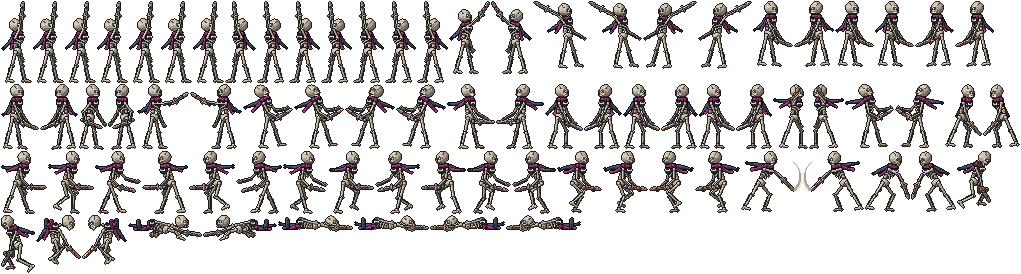
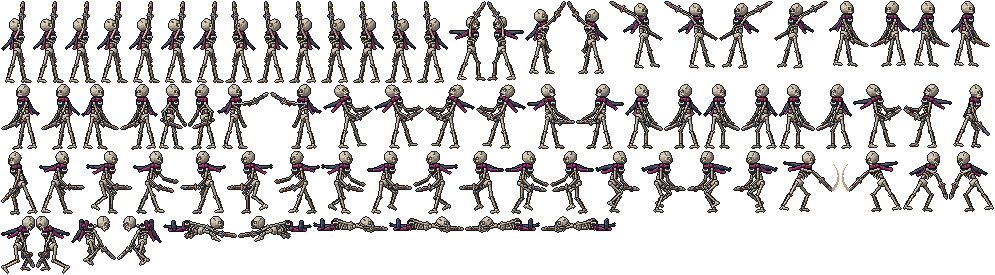
The Skeleton's Rusty Hack swings over the top instead of folding back
Jakub (2026-10-18): "skeleton a1 animation is not proper loop. fix". The
frame between the wind-up and the hack was a blend of the two poses, and a
blend turns each joint the short way round: the forearm, going from behind
the head into the downward hack, folded backward behind the skull and the
sword vanished for a frame. That frame is now authored (RH_OVER): the sword
straight up over his head on its way down, so the swing reads back, over,
down through the target. Atlas and reel regenerated; the new-champion
skill notes the pitfall.

diff --git a/tools/art/champions/skeleton.ts b/tools/art/champions/skeleton.ts
@@ -440,6 +440,13 @@ const RH_WIND = pose({
   armN: { up: 128, lo: 154 }, armF: { up: -66, lo: -30 },
   p: { sword: 150, jaw: 14, wave: 1, wind: 0.2 },
 });
+/** The sword over his head on its way down: an authored frame, since a blend of the two poses turns the forearm back the short way round. */
+const RH_OVER = pose({
+  x: 1, y: -2, torso: 86, head: 86,
+  legN: { ik: v(-10, 3) }, legF: { ik: v(9, 3) },
+  armN: { up: 86, lo: 60 }, armF: { up: -100, lo: -78 },
+  p: { sword: 56, jaw: 16, wave: 1.7, wind: 0.4 },
+});
 const RH_HACK = pose({
   x: 7, y: -4, torso: 64, head: 72,
   legN: { ik: v(-9, 3) }, legF: { ik: v(12, 3) },
@@ -488,7 +495,7 @@ const char: CharDef = {
         ...tween(D, IDLE, RH_WIND, 1, 70),
         ...keys([
           [RH_WIND, 150],
-          [mid(RH_WIND, RH_HACK, 0.45), 40],
+          [RH_OVER, 40],
           [RH_HACK, 70, { smear: true, hit: true }],
           [RH_FOLLOW, 190],
         ]),

diff --git a/.claude/skills/new-champion/SKILL.md b/.claude/skills/new-champion/SKILL.md
@@ -52,7 +52,7 @@ A champion on four legs (the Bloodhound, the Follower, the Black Rhino) solves i
    A skeleton is built bone by bone from one placement of every bone per frame (`bonesOf` in `skeleton.ts`), so in its death the bones can fall apart toward their resting places (`HEAP`) on one pose channel (`heap`, 0..1).
    Key a texture to the shape, not to the screen, or it swims as the shape breathes: the `Hit` a `tex` receives carries the shape's `u` and `v` (the Black Rhino's coat and mane, the Associate's weave). Curly hair reads as round bunches, each lit on its own (the Associate).
    Check the details at pixel level with `npx tsx tools/art/zoom.ts <id> idle 0 out.png 9`. Typical problems it catches: a band drawn as a capsule along a limb turns into a blob (draw thin rings across the limb instead), jewellery hidden behind the jaw, a hat that reads as a different hat.
-5. Animations: `idle` (6-8 frames, whole-pixel breathing), `run` (8), every `anim` the skills name, `hurt` (3), `death` (6, last frame 600 ms; capes below the feet are clipped automatically), plus `rise` if the champion has Undying. Attacks follow anticipation -> strike (`hit: true`, `smear: true`) -> follow-through -> recovery. Events: `shoot`, `jump`, `cast`; pose channel `turn: 1` flips one frame.
+5. Animations: `idle` (6-8 frames, whole-pixel breathing), `run` (8), every `anim` the skills name, `hurt` (3), `death` (6, last frame 600 ms; capes below the feet are clipped automatically), plus `rise` if the champion has Undying. Attacks follow anticipation -> strike (`hit: true`, `smear: true`) -> follow-through -> recovery. Events: `shoot`, `jump`, `cast`; pose channel `turn: 1` flips one frame. An in-between made by blending two poses (`mid`, `tween`) turns every joint the short way round: a swing that must travel the long way (a forearm going over the head from behind into a downward hack) folds backward in the blend, so author that frame instead (the Skeleton's `RH_OVER`).
 6. Icons: one entry in `icons` per skill, keys equal to the skill ids (a passive may add one under its own id, shown on the champion page), built with `glyph()` + `compose(iconBg, ...)` from `tools/art/icons.ts`; reuse the weapon function so the icon matches the sprite, or write a compact icon version of it when the full weapon does not fit 40x40 (`iconSpear` in `sunspear.ts`). Review: `npx tsx tools/art/iconpreview.ts <id>,<neighbour> out.png 6`.
 
 ## 4. Effects
